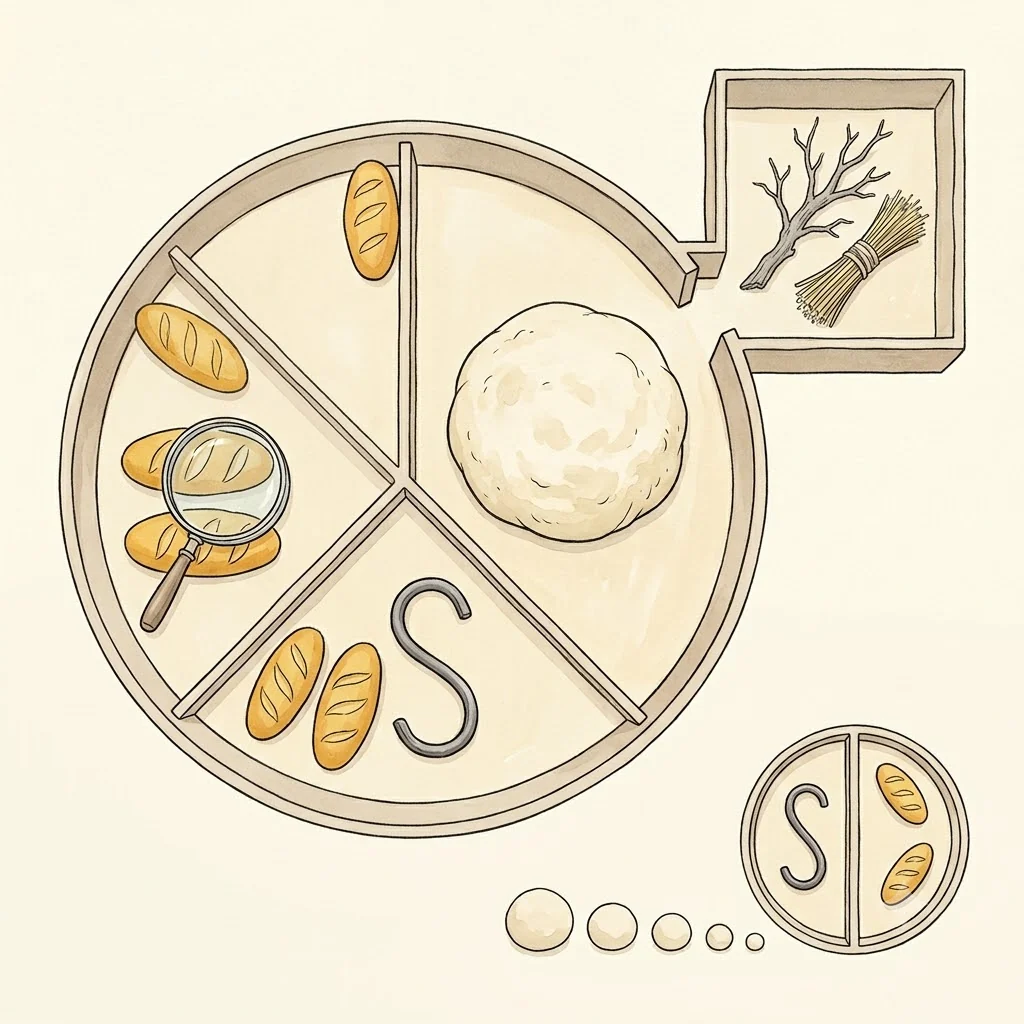
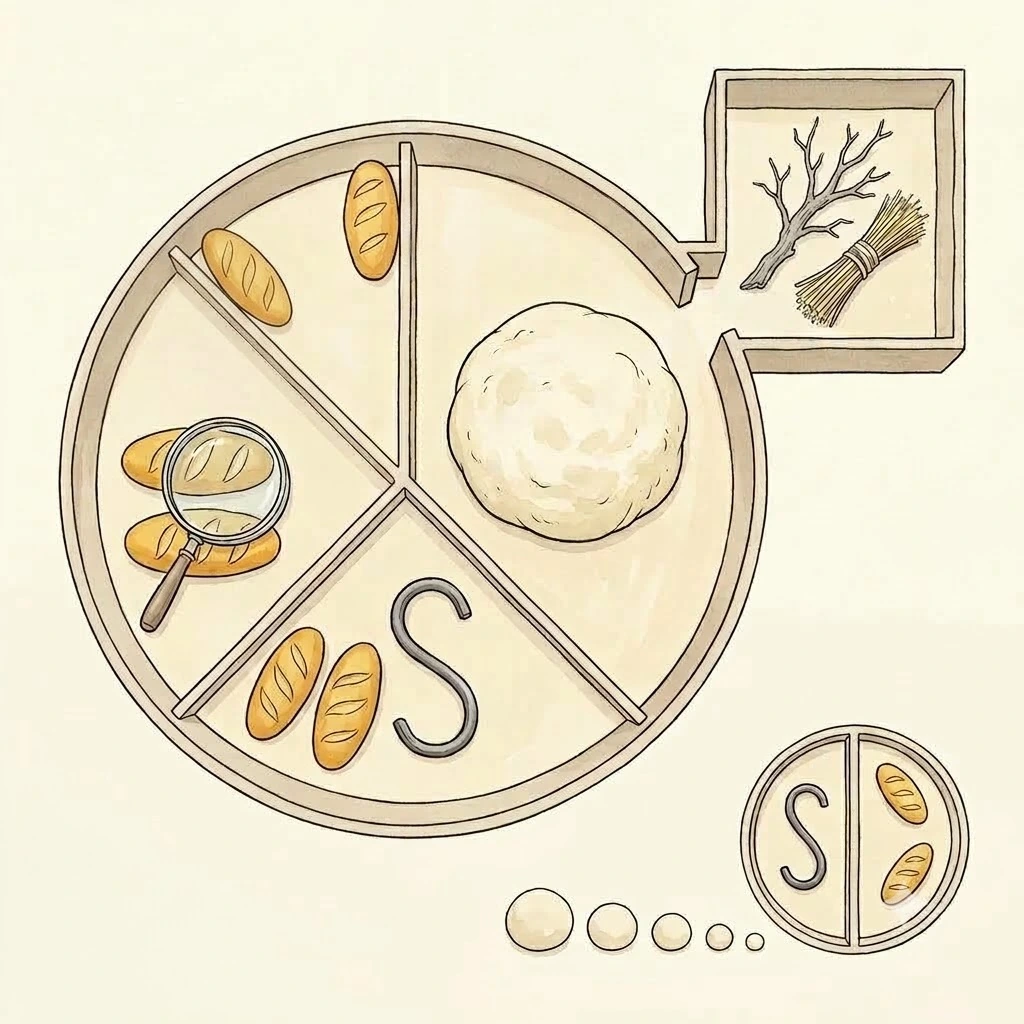
개념 논리 M — s19p01c 세포 주기 방: M 쐐기(가장 얇은 칸)에 빵 하나 · G2 쐐기(돋보기 칸)에 빵 셋이던 것(= S 뒤로 둘이 셋·하나로 읽힘) → G2 맨 위 빵을 M 쐐기의 비스듬한 벽 곁으로 옮겨 M 은 두 벽에 하나씩(가운데 빔) · G2 는 돋보기 밑 둘 · 제미나이 v1 + G1 칸에 더 그린 빵 하나를 설치본에서 되옮겨 지움 · 글은 원래 이 그림을 적고 있어 그대로
Claude-Session: https://claude.ai/code/session_01WoYBm6rvmofApXiAiUhif2

diff --git a/tools/retouch/s19p01c_drop_g1_loaf.py b/tools/retouch/s19p01c_drop_g1_loaf.py
@@ -1,0 +1,18 @@
+#!/usr/bin/env python3
+"""s19p01c — 개념 논리 M(S 뒤로는 모두 둘): 제미나이 v1 이 G2(돋보기) 칸 맨 위 빵을 M(가장 얇은) 칸의 비스듬한 벽 곁으로 옮겨
+G2 둘 · M 둘(두 벽에 하나씩)로 맞췄으나, 세로 벽 오른쪽 G1 칸 꼭대기에 빵 하나(x 418..468 · y 160..305)를 더 그려 넣음
+→ 그 자리(x 416..482 · y 150..312, 세로 벽 오른쪽)만 설치본에서 되옮김(설치본엔 그 자리에 아무것도 없음 · 두 그림 어긋남 0px 확인) · 가장자리 3px 섞음.
+사용: python3 s19p01c_drop_g1_loaf.py V1.png ORIG.png OUT.png"""
+import sys
+import numpy as np
+from PIL import Image
+from scipy import ndimage as ndi
+v1p, op, dst = sys.argv[1], sys.argv[2], sys.argv[3]
+V = np.asarray(Image.open(v1p).convert('RGB')).astype(np.float32)
+O = np.asarray(Image.open(op).convert('RGB')).astype(np.float32)
+assert V.shape == O.shape == (1024, 1024, 3)
+M = np.zeros((1024, 1024), np.float32)
+M[150:312, 416:482] = 1.0
+M = ndi.gaussian_filter(M, 1.5)[..., None]
+out = V * (1 - M) + O * M
+Image.fromarray(np.clip(out, 0, 255).astype(np.uint8)).save(dst); print('ok', dst)

diff --git a/tools/retouch/README.md b/tools/retouch/README.md
@@ -43,3 +43,4 @@
 | s48p03 | `s48p03_wm.py` — 개념 논리 M(도장 ↔ 끊김이 짝): 옛 그림은 도장 없는 그물 한가운데가 끊기고 도장 자리는 멀쩡 → 제미나이 v1(도장 셋 자리마다 줄이 끊겨 끝이 말려 튕김 · 가운데 끊김은 이어 붙임 · 천막 꼭대기 그물 모양만 조금 바뀜)을 쓰고, 창고 벽 밑동의 반짝이 표식(x 928..956 · y 398..433)만 25px 왼쪽 결로 덮음 | s48p03_v1_1790702198379.png |
 | s03p04 | `s03p04_spool_to_nucleus.py` — 개념 논리 M(히스톤은 핵 안): 제미나이 v1 은 오른쪽(진핵) 가게 곁방의 작은 저울만 빼고 실패는 못 옮김 · v2 는 실패를 아예 지움 → v2(왼쪽·가운데 가게는 그대로 다시 그림 · 오른쪽 곁방은 빈 선반)를 바탕으로 가운데(고세균) 가게 선반의 실패(x 583..607 · y 245..278)를 손 윤곽으로 오려 1.25배 · 재선명화 후 오른쪽 가게 가운데 방 계산대 위 주인 앞(x 825 · 바닥 y 351)에 세움 · 오른쪽 아래 반짝이 표식 덮음 | s03p04_v2_1790703817809.png |
 | s01p02 | `s01p02_crate_from_v1.py` — 개념 논리 M(I 두 겹 · II 한 겹이 안 읽힘): 제미나이 같은 대화 v2(왼쪽 배 계류 = 꼰 두 겹 밧줄 · 오른쪽 배 = 가는 한 가닥 · 작업대 = 가는 한 가닥이 들어와 꼰 두 겹이 나감)가 v1 에서 가는 끈으로 바꿔 둔 오른쪽 부두 가운데 궤짝을 다시 굵은 밧줄로 감음 → 그 궤짝 윤곽(육각 다각형)만 v1 에서 옮기고 v1 의 작업대 밧줄 고리 조각은 v2 로 되돌림 | s01p02_v2_1790703817874.png + s01p02_v1_1790703621539.png |
+| s19p01c | `s19p01c_drop_g1_loaf.py` — 개념 논리 M(S 뒤로는 모두 둘): M 쐐기 빵 하나 · G2 쐐기 빵 셋이던 것 → 제미나이 v1(G2 맨 위 빵을 M 쐐기의 비스듬한 벽 곁으로 — M 둘이 두 벽에 · G2 둘)이 세로 벽 오른쪽 G1 칸 꼭대기에 빵 하나를 더 그림 → 그 자리(x 416..482 · y 150..312)만 설치본에서 되옮김(어긋남 0px) · ⚠ `s19p01c_move_bread.py` 는 손으로 옮기려던 첫 시도(테두리 선·바퀴살 그늘 복원이 거칠어 버림 · 기록용) | s19p01c_v1_1790704574876.png |

diff --git a/tools/vision/logic_0929.md b/tools/vision/logic_0929.md
@@ -147,7 +147,7 @@
 | s17p06 | 1·5·6 | 들세동맥이 네모 원위세관과 한 관으로 이어짐 | 치밀반은 닿기만 — 관강이 이어지지 않는다 | M | 그림 | |
 | s17p07 | 3 | 인산 성냥갑이 관 벽 문으로 **나감**(= 재흡수로 읽힘) | PTH 는 인산 재흡수를 **줄인다** | M | 그림 | |
 | s17p07 | 5–6 | NCC 문 열림 · 자물쇠는 옆 걸쇠 · 짐이 관 밖 | 티아자이드가 막는 그림이 아니다 | M | 그림 | |
-| s19p01c | 5–6 | M 쐐기 빵 1 · G2 쐐기 빵 3 | S 뒤 모두 둘 | M | 그림 | |
+| s19p01c | 5–6 | M 쐐기 빵 1 · G2 쐐기 빵 3 | S 뒤 모두 둘 | M | 그림 | ✔ 9/29 G2 빵 둘(돋보기 밑) · M 빵 둘이 두 벽에 붙고 가운데 빔(제미나이 v1 + G1 에 더 그린 빵 지움) — 글은 이미 이 그림을 적고 있었음 |
 | s19p02d · s19p02g | 7 · 3 | 아폽토솜 = 붉은 구슬(시토크롬 c)만의 고리 · 글도 | 바퀴는 Apaf-1 일곱(각각 cyt c 하나) | M | 그림 + 글 | s19p02d ✔ 대기열 41 과 한 라운드 — 둥글게 둘러선 잿빛 말뚝(여덟로 그려짐 · 글은 수를 안 적음) + 말뚝마다 알갱이 · 7행·본문·hooks / s19p02g 대기(41b) |
 | s19p02k | 2 | 캐스터네츠가 아스파라거스 뒤 **셋째** 구슬 | 캐스페이스는 Asp **바로 뒤** 결합을 자른다 | M | 그림 | ✔ 9/29 손 보정: 아스파라거스와 캐스터네츠 사이 구슬 둘을 빼고 오른쪽을 70px 당김 — 캐스터네츠가 Asp 바로 뒤를 문다 · 2행 글은 원래 맞음 |
 | s12p03 | 4 | 열쇠 상자 케이블이 키모트립신 줄로 | 엔테로펩티데이스 → 트립신만 | m | 그림 | |

diff --git a/tools/prompts/s16p01c_등불과창구도르래_칩_v1.md b/tools/prompts/s16p01c_등불과창구도르래_칩_v1.md
@@ -1,0 +1,8 @@
+# s16p01c — 로돕신 = 창구(GPCR) 자체 · 손님은 빛(등불) / 토큰 = 짙은 회색 네모 칩(GTP) · v1
+
+logic_0929 M 4: 손님(리간드)이 로돕신 도르래를 GPCR 창에 나름 → 로돕신이 곧 GPCR · 리간드는 빛. m 5: G단백 토큰이 동전 → 네모 칩.
+
+Edit the attached illustration. Keep the wall with its seven windows, all the people, their poses, the colors and the style exactly as they are, and make only these changes:
+1) The man in the beige sweater standing at the crooked brick window (the fourth window from the left, with his hand on its frame) carries a small wooden pulley with a rope in his other hand. Take the pulley and rope out of his hand and mount them ON that crooked window instead: the small wooden pulley is bolted to the top corner of the window frame, with its thin rope hanging down along the frame. In his free hand he now holds up a small lit lantern glowing warm yellow, its light shining onto the bricks of that window.
+2) The man sitting on the floor at the far right holds a round brown token on his knee, and another round token lies on the floor near his foot. Make both of them small DARK GRAY SQUARE chips (thick square tiles like square game chips), not round.
+No text.

diff --git a/tools/prompts/s20p03_씨앗싹_잠_v1.md b/tools/prompts/s20p03_씨앗싹_잠_v1.md
@@ -1,0 +1,8 @@
+# s20p03 — 적색 아래: 씨앗이 싹틈 / 근적외 아래: 씨앗이 그대로 잠(시든 꽃 아님) · v1
+
+logic_0929 M: 적색광 아래 꽃 핌 · 원적색 아래 시듦 → 원적색이 식물을 해치지 않는다 · 꽃 피는 것은 단일/장일로 반대. 상추 씨 발아(적 → 발아 · 근적외 → 휴면)가 이 스위치 실험의 교과서 그림.
+
+Edit the attached illustration. Keep the wall, the two lamps (the glowing red one on the left and the dark one with heat shimmer on the right), the toggle switch with the big hand pressing it, the root at the bottom with its heavy grains, the colors and the style exactly as they are. Change only the two little flower pots:
+- Pot under the RED lamp: instead of a flower, a single seed in the soil has just sprouted — a small fresh green seedling with two round seed leaves and the split seed coat beside it.
+- Pot under the DARK lamp: no plant at all — the same kind of seed lies on the soil surface, whole, plump and unsprouted, just resting (not rotten, not dead, nothing wilted).
+Both pots are the same size and the same kind. No text.

diff --git a/tools/prompts/s21p02b_외군먼저_가로대_v1.md b/tools/prompts/s21p02b_외군먼저_가로대_v1.md
@@ -1,0 +1,8 @@
+# s21p02b — 외군이 먼저 갈라짐: 가운데 인형 + 목도리 쌍을 한 가로대로 묶음 · v1
+
+logic_0929 M 1·5: 외군이 내군 하나와 같은 마디(긴 가로대)에서 갈림(세 갈래) → 외군이 먼저 갈라져야.
+
+Edit the attached illustration of a hanging mobile. Keep the four wooden puppets exactly as they are (their faces, grey patched aprons, clogs or bare feet, and the red scarves on the two on the right), the colors and the style. Change only how they hang:
+- The long top bar keeps hanging from the ceiling. From it hang just TWO things: at its left end, the lone puppet on its long string (as now), and near its right end, ONE string holding a second, shorter bar.
+- The second bar holds the middle puppet (without a scarf) at its left end, and at its right end the small bar with the two scarf-wearing puppets (as now).
+So the nesting is: top bar → [lone puppet] and [second bar → [middle puppet] and [small bar → two scarf puppets]]. No puppet hangs directly from the top bar except the lone one on the left. No text.

diff --git a/tools/prompts/s16p02_PDE짧은토막_v1.md b/tools/prompts/s16p02_PDE짧은토막_v1.md
@@ -1,0 +1,8 @@
+# s16p02 — PDE: 고리를 펴도 긴 막대(ATP)가 아니라 짧은 토막(AMP) · v1
+
+logic_0929 M 4·1: PDE 가 고리를 펴 ATP 막대로 되돌림 → PDE: cAMP → 5′-AMP (AC 의 역반응 아님).
+
+Edit the attached illustration. Change ONLY the man with the pliers at the right and the metal bin beside him, and keep everything else exactly the same — the machine on the left with the long straight rods lying beside it, the rings falling into the tray, the ladder with the dozing man, the man in the vest shouting at the doorway and the crowd behind him, the colors and the style.
+- The ring he is working on with the pliers is snapped open into a SHORT straight stub — only about as long as the ring is wide — clearly much shorter than the long straight rods lying on the left beside the machine.
+- The metal bin beside him is filled with the same SHORT stubs, like a bin of short stubby pieces — no long rods in it.
+No text.
